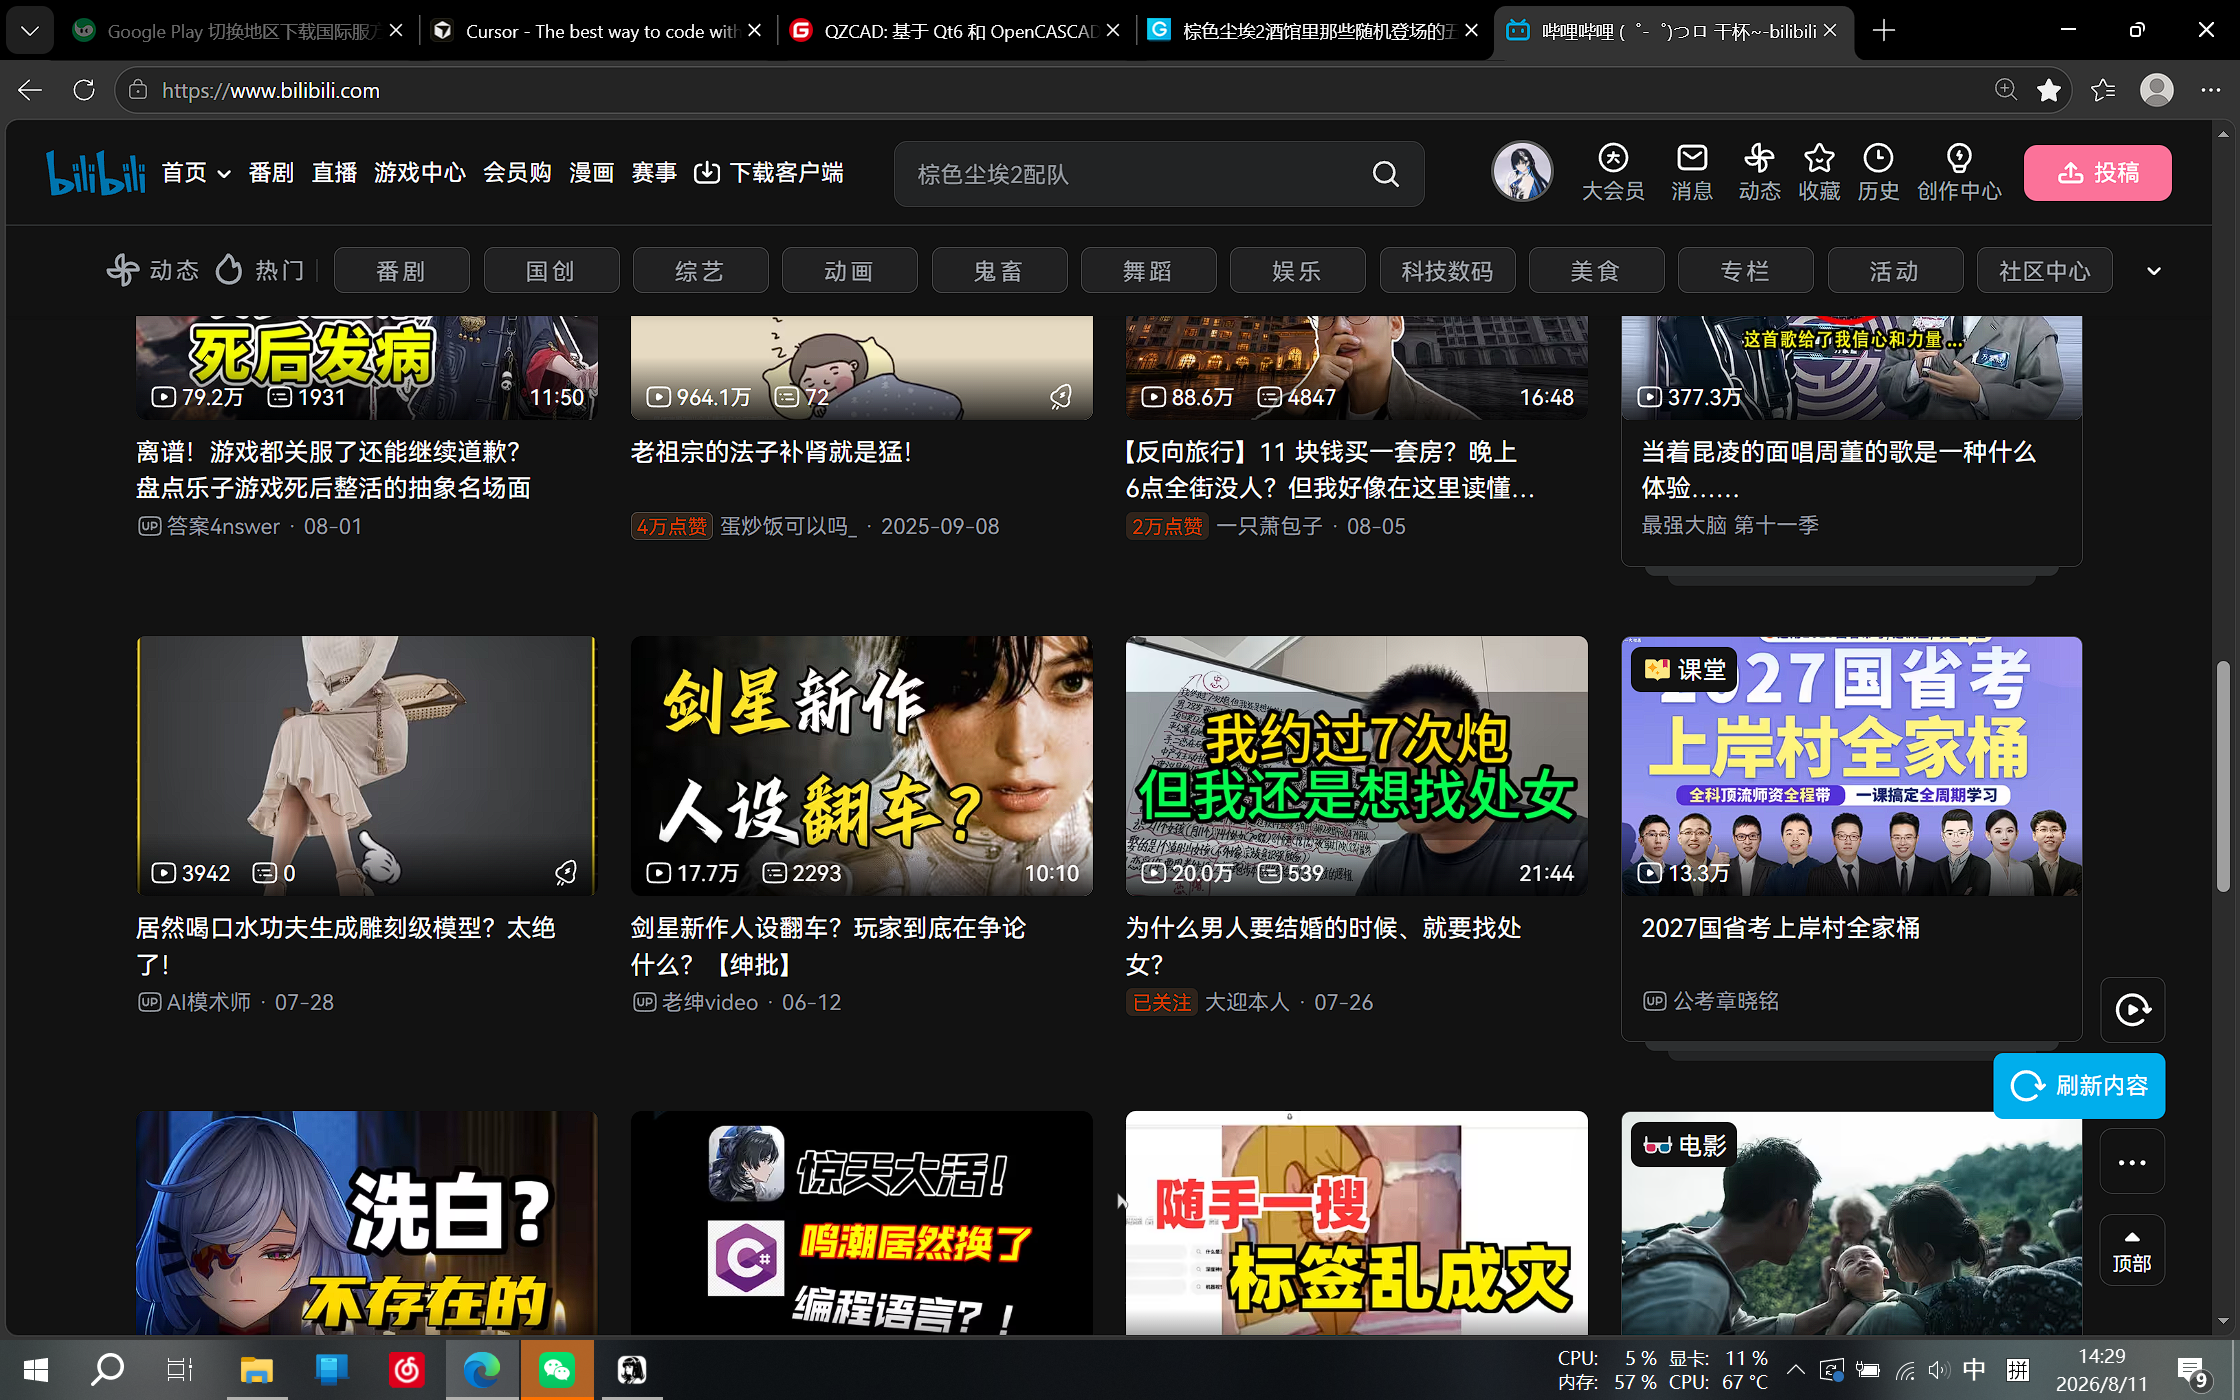
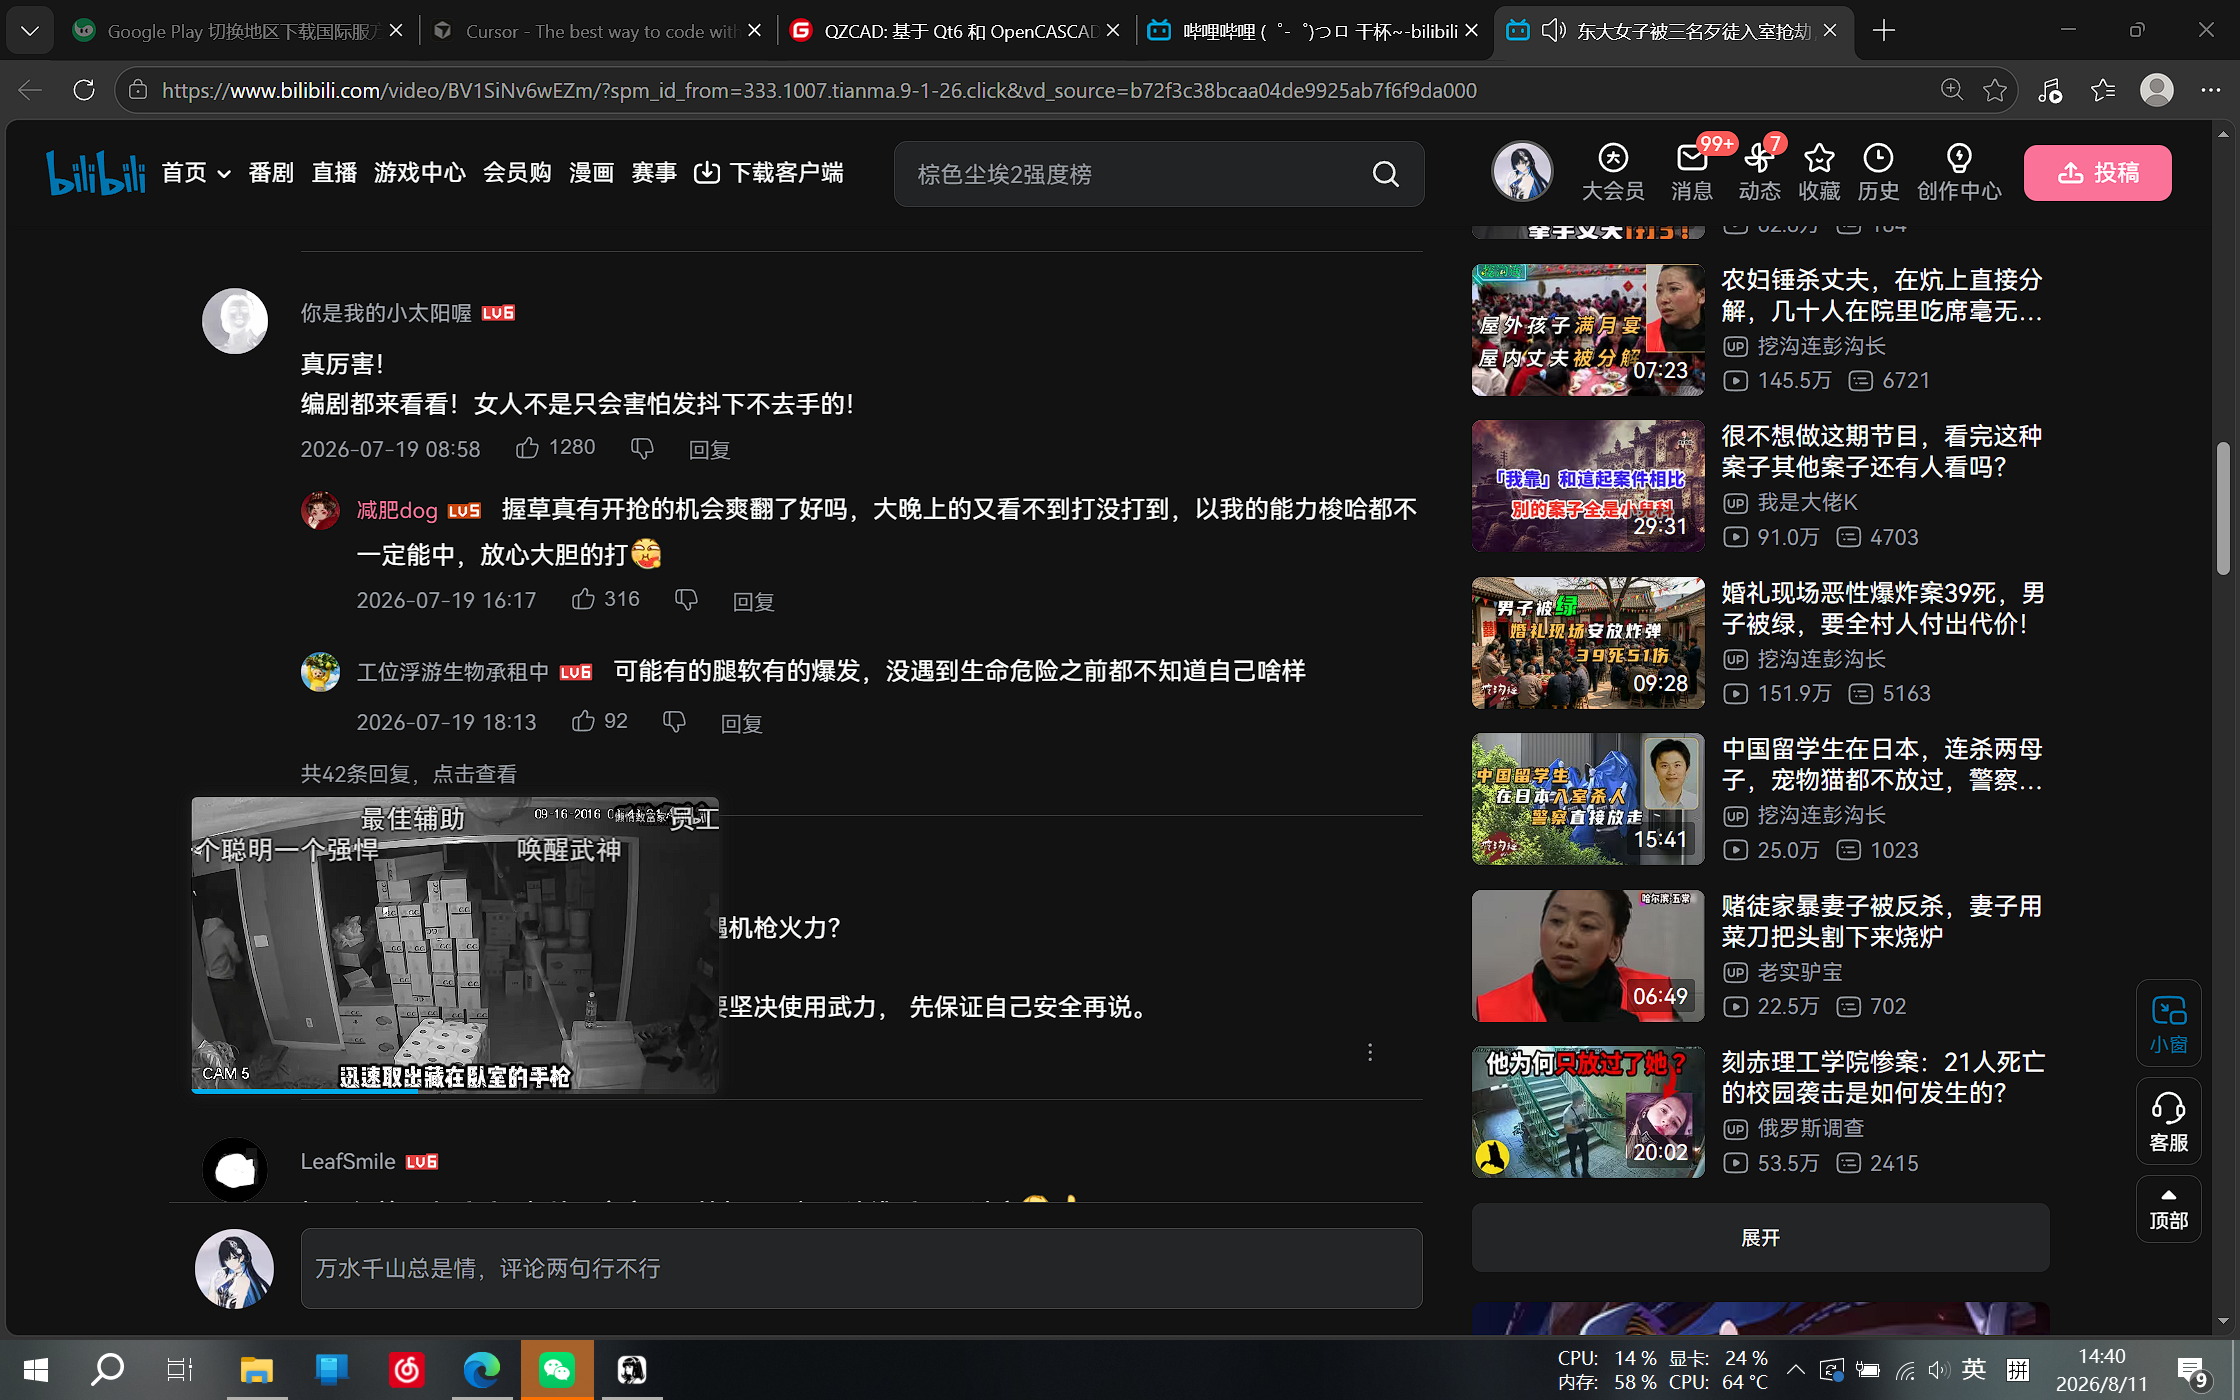
debug: 添加半透明背景以便调试

diff --git a/desktop_pet.py b/desktop_pet.py
@@ -526,6 +526,9 @@ class PetWidget(QWidget):
         w = self.width()
         h = self.height()
 
+        # 绘制半透明白色背景（调试用）
+        painter.fillRect(0, 0, w, h, QColor(255, 255, 255, 50))
+
         # 应用呼吸偏移
         painter.translate(self.idle_sway_x, self.idle_offset_y)
 
